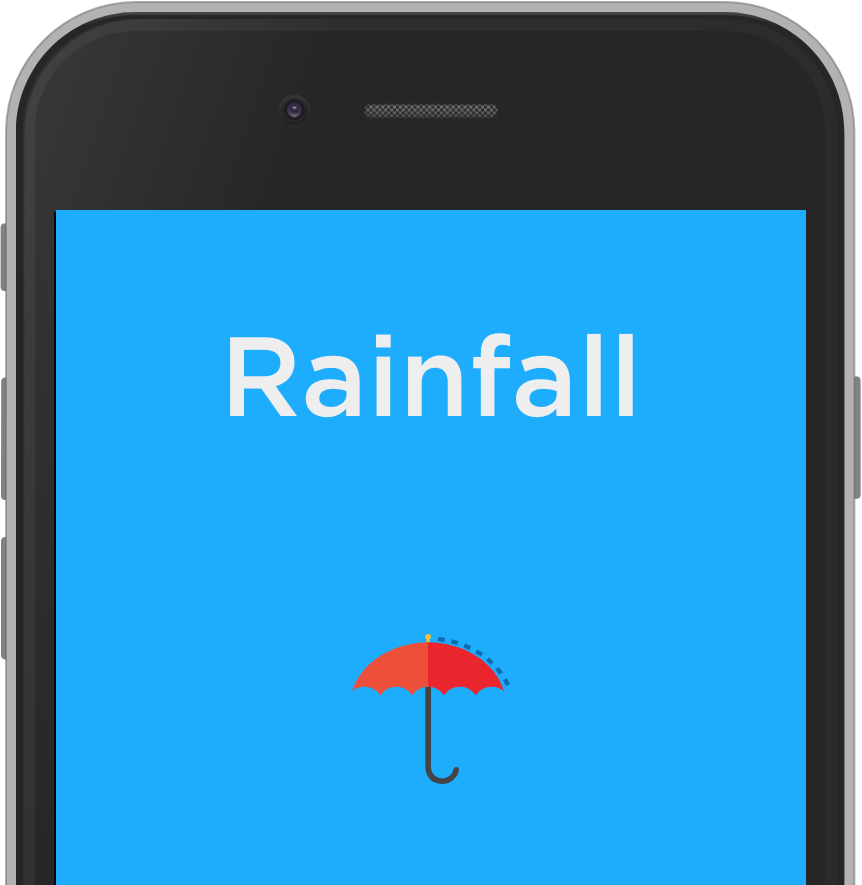
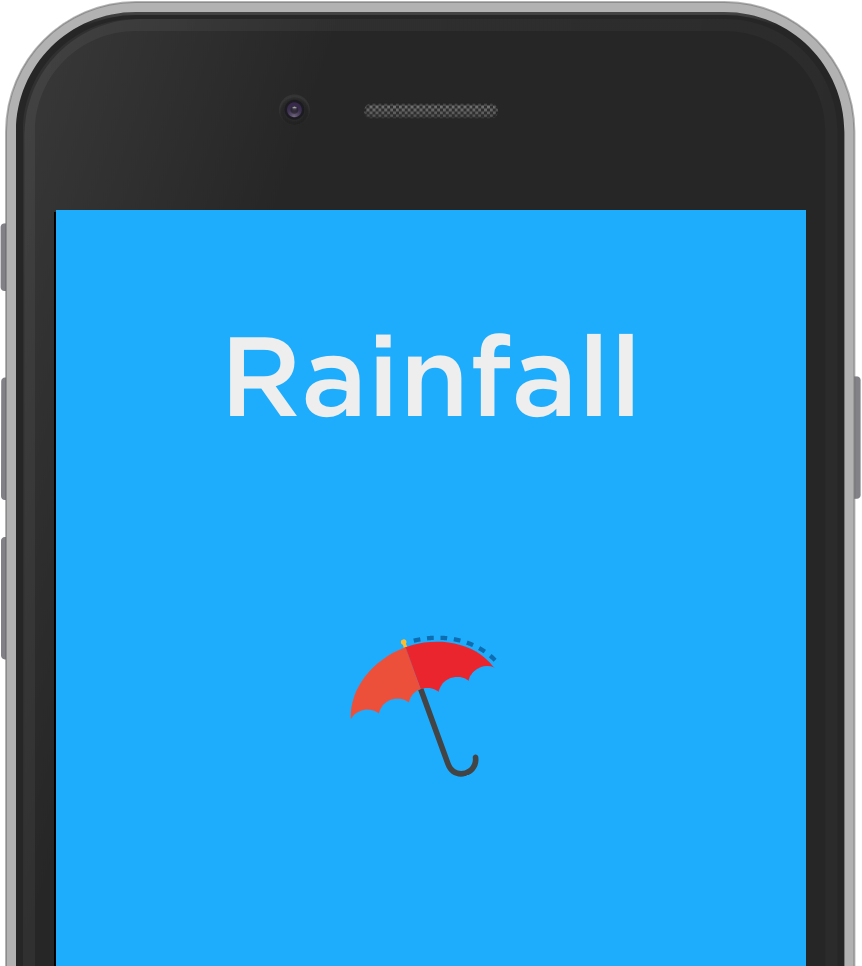
rotate

diff --git a/index.html b/index.html
@@ -1,7 +1,7 @@
 <html>
 <head>
   <meta http-equiv="Content-Type" content="text/html; charset=UTF-8">
-  <title>☔</title>
+  <title>Rainfall</title>
   <meta http-equiv="X-UA-Compatible" content="IE=edge">
   <meta name="description" content="Soothing rain sounds to help you concentrate ☔">
   <meta name="viewport" content="width=device-width, initial-scale=1">
@@ -27,7 +27,7 @@
     <div id='container'>
       <div id='button-container'>
         <button id='umbrella-button' class='visible'>
-          <img id='umbrella-logo' src='assets/images/rain.svg' />
+          <img id='umbrella-logo' class='rotate' src='assets/images/rain.svg' />
         </button>
       </div>
     </div>
@@ -35,11 +35,11 @@
   <script type="text/javascript">
   if ('serviceWorker' in navigator) {
     navigator.serviceWorker.register('/sw.js', {
-        scope: '/'
-      })
-      .then(function(reg) {
-        console.log('Service Worker Registered');
-      });
+      scope: '/'
+    })
+    .then(function(reg) {
+      console.log('Service Worker Registered');
+    });
 
     navigator.serviceWorker.ready.then(function(reg) {
       console.log('Service Worker Ready');

diff --git a/assets/scripts/main.js b/assets/scripts/main.js
@@ -1,13 +1,14 @@
 (function() {
   "use strict";
   var status = document.getElementById("status");
-  var ubmrellaButton = document.querySelector("#umbrella-button");
+  var umbrellaButton = document.querySelector("#umbrella-button");
+  var umbrellaLogo = document.querySelector("#umbrella-logo");
   var audioFile = new Audio("/assets/media/rain.mp3");
 
   audioFile.addEventListener("timeupdate",
     function() {
       console.log('currentTime',this.currentTime);
-      var buffer = 0.65;//better?
+      var buffer = 0.85;
       if (this.currentTime > this.duration - buffer) {
         this.currentTime = 0;
         this.play();
@@ -16,7 +17,8 @@
     false
   );
 
-  ubmrellaButton.addEventListener("click", () => { //TODO touchup event?
+  umbrellaButton.addEventListener("click", () => { //TODO touchup event?
+    umbrellaLogo.classList.toggle('rotate');
     if (status.innerHTML === "Raining") {
       status.innerHTML = "Paused";
       audioFile.pause();

diff --git a/assets/styles/main.css b/assets/styles/main.css
@@ -49,6 +49,10 @@ h1 {
 }
 #umbrella-logo {
     width: 21vmin;
+    transition: transform 1.5s;
+}
+.rotate {
+    transform: rotate(-20deg);
 }
 @-webkit-keyframes fadeOut {
     from { opacity: 1; }
